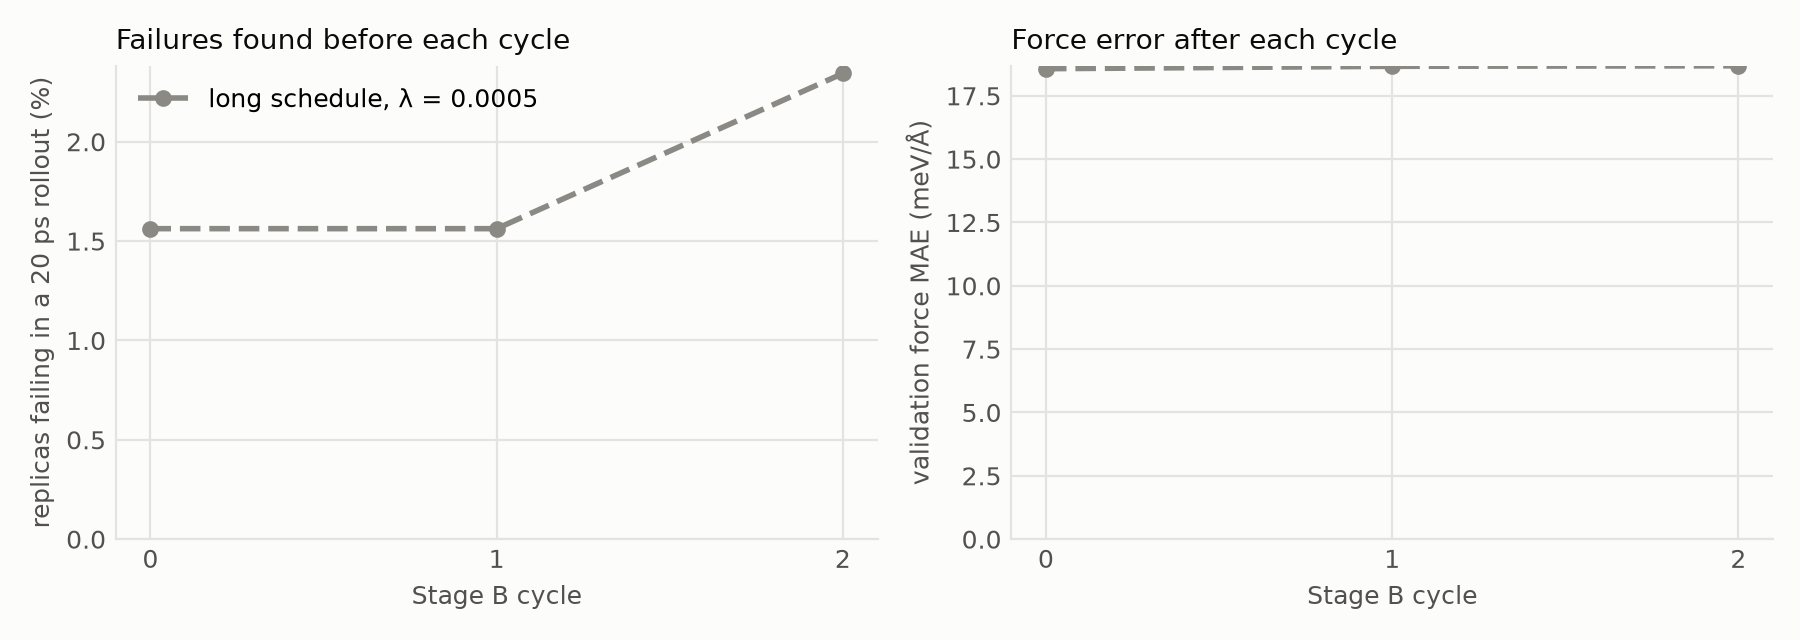
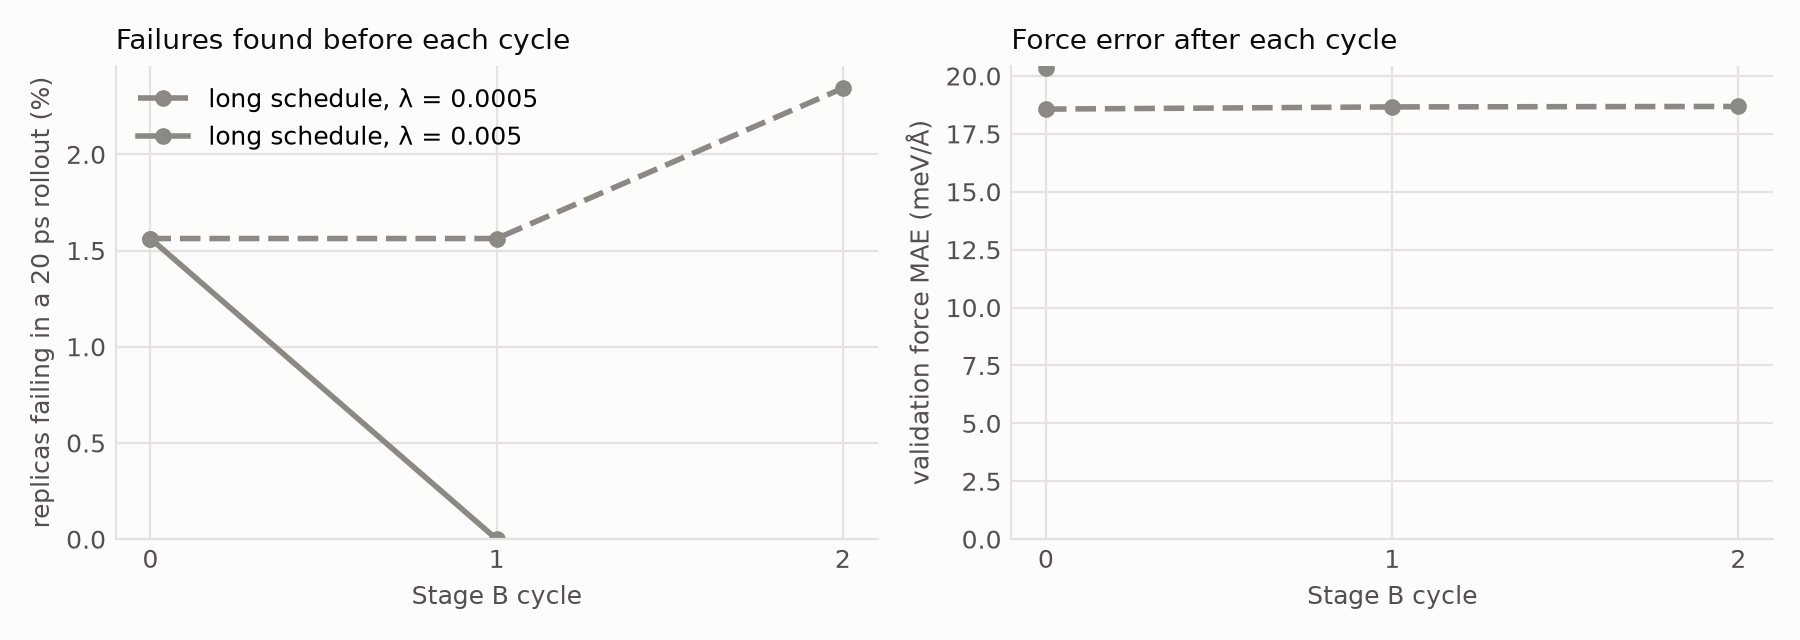
Milestone: add margin loss (lambda 0.005) on the long-schedule model

diff --git a/docs/milestone/results.md b/docs/milestone/results.md
@@ -7,6 +7,7 @@ Generated by `python scripts/analysis/milestone.py plot` from `docs/milestone/da
 | short schedule (StABlE default, patience 5) | Standard loss | 53.3 | n/a¹ | 74.2% | 66 | 84.4 | 0.104 | 0.54 | 0.046 |
 | long schedule (converged, patience 50) | Standard loss | 19.1 | n/a¹ | 96.9% | 8 | 97.9 | 0.112 | 0.56 | 0.082 |
 | long schedule (converged, patience 50) | Margin loss (λ = 0.0005) | 19.2 | 4.0 | 96.9% | 8 | 98.3 | 0.112 | 0.54 | 0.079 |
+| long schedule (converged, patience 50) | Margin loss (λ = 0.005) | 21.2 | 6.1 | 96.5% | 9 | 98.0 | 0.111 | 0.53 | 0.095 |
 
 ¹ Evaluated before the energy-offset fix in `mdsim_backend.py`; the energy MAE of these two runs is not meaningful. Force MAE and stability are unaffected.
 
